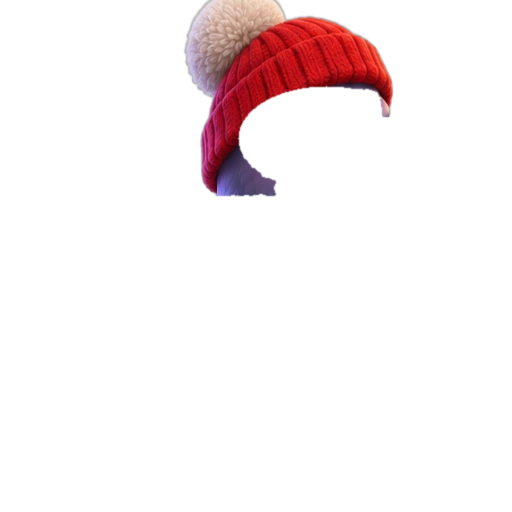
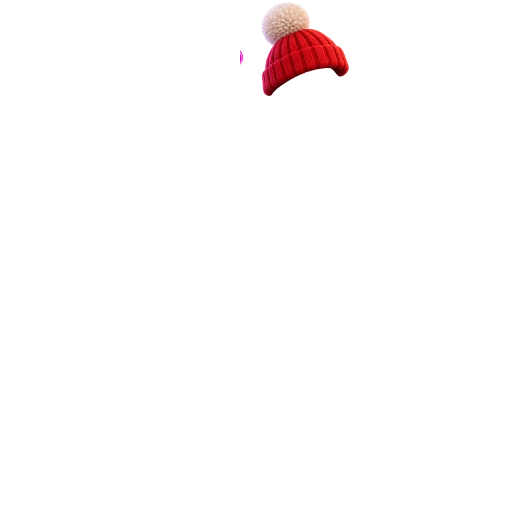
feat: use standalone PNG hat sheets with anti-clipping fit

Changed region(s): [[0.3438, 0.0, 0.7812, 0.4062]]

diff --git a/src/ui.tsx b/src/ui.tsx
@@ -123,7 +123,7 @@ export const PIGEON_SKIN_COLORS: Record<string, string> = {
   "iridescent-oil-slick": "#5e5a67", "skin-18": "#5e5a67", "18": "#5e5a67",
 };
 
-const ASSET_V = "?v=14";
+const ASSET_V = "?v=15";
 
 export function resolveSkinSrc(skin?: string | null): string {
   if (!skin || skin === "common" || skin === "default") {

diff --git a/scripts/build-pigeon-assets.py b/scripts/build-pigeon-assets.py
@@ -469,6 +469,104 @@ def extract_accessory_diff(
     return out
 
 
+# Параметры посадки 18 отдельных PNG-шапок на голову эталона 512x512 (cx=301, макушка y=39, брови y=75)
+# (target_w, cx, y_bottom)
+STANDALONE_HAT_FIT: dict[int, tuple[int, int, int]] = {
+    1: (168, 297, 102),  # Чёрная панама
+    2: (162, 310, 98),   # Жёлтая кепка
+    3: (128, 299, 84),   # Золотая корона
+    4: (176, 290, 152),  # Шапка-ушанка
+    5: (162, 308, 96),   # Красная бейсболка
+    6: (172, 276, 128),  # Красная повязка
+    7: (188, 290, 102),  # Шляпа волшебника
+    8: (162, 298, 96),   # Кусок пиццы
+    9: (132, 300, 102),  # Кроличьи ушки
+    10: (126, 300, 52),  # Золотой нимб
+    11: (162, 309, 96),  # Неоновый козырёк
+    12: (142, 294, 96),  # Красная шапка с помпоном
+    13: (154, 308, 96),  # Кепка с пропеллером
+    14: (146, 300, 94),  # Колпак повара
+    15: (184, 298, 98),  # Пиратская треуголка
+    16: (170, 299, 98),  # Зелёная панама-лягушка
+    17: (184, 294, 118), # Колпак шута
+    18: (172, 290, 142), # Шлем авиатора
+}
+
+
+def build_standalone_hats_assets(session):
+    """Вырезает и сажает на голову эталона 18 отдельных головных уборов из PNG-листов."""
+    src_dir = RAW_DIR / "hats"
+    out_slot_dir = OUT_DIR / "hats"
+    out_slot_dir.mkdir(parents=True, exist_ok=True)
+    print(f"\n[7/7] Посадка 18 отдельных PNG-шапок из {src_dir}...")
+
+    item_idx = 1
+    for sheet_idx in (1, 2, 3):
+        sheet_path = src_dir / f"hats-raw-{sheet_idx}.png"
+        if not sheet_path.exists():
+            print(f"  ⚠ Пропуск: {sheet_path.name} не найден")
+            continue
+        raw = np.array(Image.open(sheet_path))
+        has_alpha = raw.ndim == 3 and raw.shape[2] == 4
+        h, w = raw.shape[:2]
+        cw, ch = w / 3.0, h / 2.0
+        for row in range(2):
+            for col in range(3):
+                y0, y1 = int(round(row * ch)), int(round((row + 1) * ch))
+                x0, x1 = int(round(col * cw)), int(round((col + 1) * cw))
+                cell = raw[y0:y1, x0:x1]
+                if has_alpha:
+                    seg_rgba = cell.copy()
+                else:
+                    seg_rgba = segment_subject(cell[:, :, :3], session)
+
+                # Убираем мелкий мусор/осколки на краях ячейки (area < 80)
+                num_l, labels, stats, _ = cv2.connectedComponentsWithStats((seg_rgba[:, :, 3] > 20).astype(np.uint8))
+                if num_l > 1:
+                    valid = np.zeros(seg_rgba.shape[:2], dtype=bool)
+                    for lbl in range(1, num_l):
+                        if stats[lbl, cv2.CC_STAT_AREA] >= 80:
+                            valid[labels == lbl] = True
+                    seg_rgba[~valid, 3] = 0
+
+                ys, xs = np.where(seg_rgba[:, :, 3] > 20)
+                if len(ys) == 0:
+                    continue
+                crop = seg_rgba[ys.min():ys.max() + 1, xs.min():xs.max() + 1]
+                ch_c, cw_c = crop.shape[:2]
+
+                target_w, cx_dst, y_bot_dst = STANDALONE_HAT_FIT.get(item_idx, (166, 300, 96))
+                scale = target_w / max(1, cw_c)
+                new_w = max(1, int(round(cw_c * scale)))
+                new_h = max(1, int(round(ch_c * scale)))
+                # Никогда не обрезаем макушку шапки по y=0: при нехватке места сверху аккуратно масштабируем под доступную высоту
+                if y_bot_dst - new_h < 2:
+                    scale = max(0.1, (y_bot_dst - 2) / max(1, ch_c))
+                    new_w = max(1, int(round(cw_c * scale)))
+                    new_h = max(1, int(round(ch_c * scale)))
+                resized = cv2.resize(crop, (new_w, new_h), interpolation=cv2.INTER_AREA if scale < 1.0 else cv2.INTER_CUBIC)
+
+                canvas = np.zeros((TARGET_SIZE[1], TARGET_SIZE[0], 4), dtype=np.uint8)
+                x_dst0 = int(round(cx_dst - new_w / 2.0))
+                y_dst0 = int(round(y_bot_dst - new_h))
+
+                # Клиппинг по границам холста 512x512
+                sx0 = max(0, -x_dst0)
+                sy0 = max(0, -y_dst0)
+                dx0 = max(0, x_dst0)
+                dy0 = max(0, y_dst0)
+                dx1 = min(TARGET_SIZE[0], x_dst0 + new_w)
+                dy1 = min(TARGET_SIZE[1], y_dst0 + new_h)
+                if dx1 > dx0 and dy1 > dy0:
+                    canvas[dy0:dy1, dx0:dx1] = resized[sy0:sy0 + (dy1 - dy0), sx0:sx0 + (dx1 - dx0)]
+
+                out_file = out_slot_dir / f"hats-{item_idx:02d}.webp"
+                save_rgba_webp(canvas, out_file)
+                px = int(np.sum(canvas[:, :, 3] > 20))
+                print(f"  ✓ hats #{item_idx:02d} ({'RGBA' if has_alpha else 'rembg'}): {out_file.name} (пикселей: {px})")
+                item_idx += 1
+
+
 def build_accessories_assets(
     slot: str,
     sheet_names: list[str],
@@ -615,7 +713,10 @@ def main():
     # 5–7. Обувь, одежда, головные уборы
     build_accessories_assets("shoes", ["shoes1.jpg", "shoes2.jpg", "shoes3.jpg"], ref_rgba, session, "[5/7]")
     build_accessories_assets("clothes", ["clothes1.jpg", "clothes2.png", "clothes3.png"], ref_rgba, session, "[6/7]")
-    build_accessories_assets("hats", ["hats1.png", "hats2.png", "hats3.png"], ref_rgba, session, "[7/7]")
+    if (RAW_DIR / "hats" / "hats-raw-1.png").exists():
+        build_standalone_hats_assets(session)
+    else:
+        build_accessories_assets("hats", ["hats1.png", "hats2.png", "hats3.png"], ref_rgba, session, "[7/7]")
 
     total_files = len(list(OUT_DIR.rglob("*.webp")))
     print(f"\nГотово! Всего WebP файлов в {OUT_DIR}: {total_files}")
